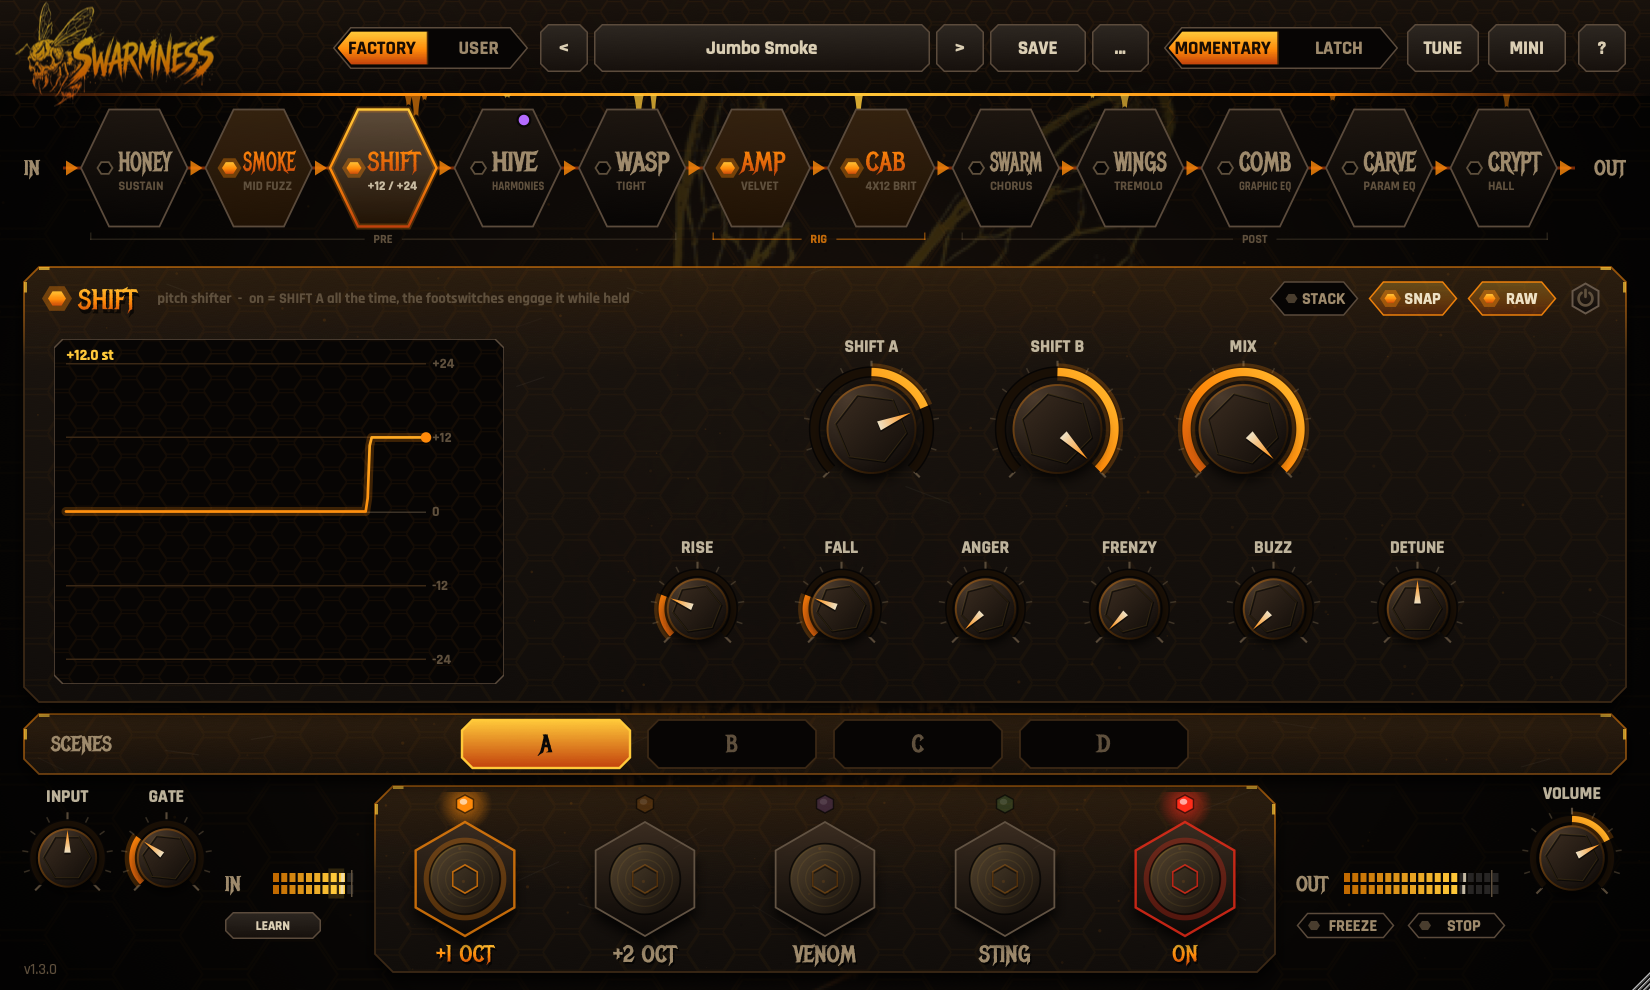
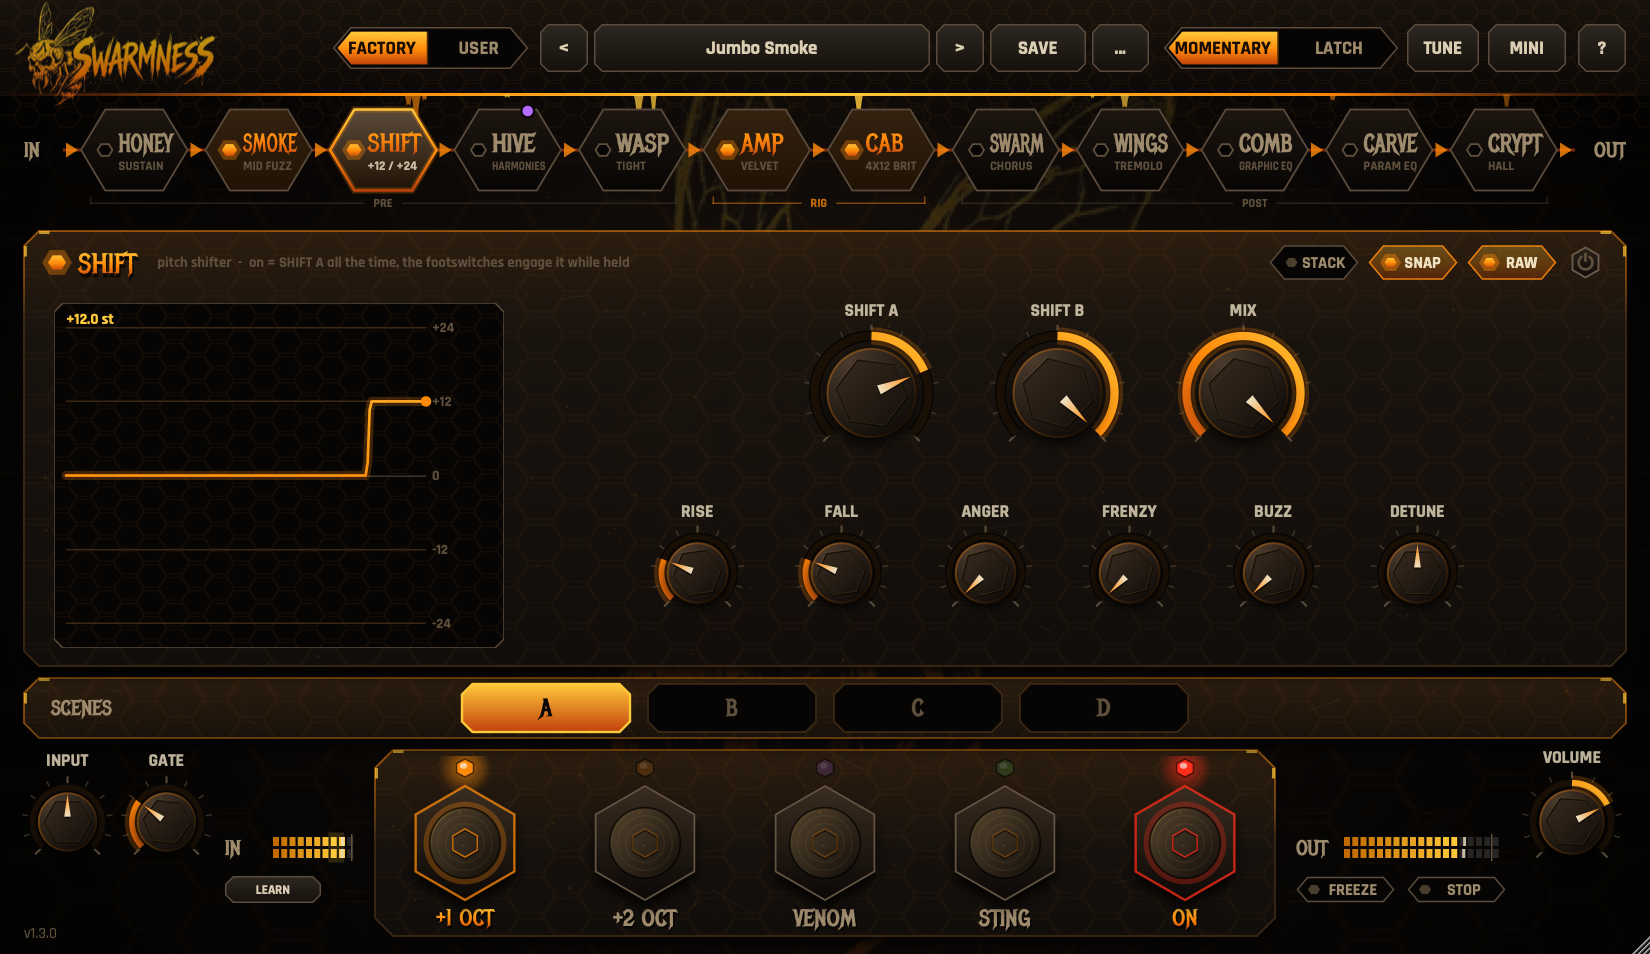
UI: chain tiles as low capsules
The taller tiles read as stretched upright. They are 60 high again, wider
than tall (points at 0.3 of the height), names and the live value still
fit; the window loses the 24 px (636 high, MINI 338).

diff --git a/Source/GUI/ChainStrip.cpp b/Source/GUI/ChainStrip.cpp
@@ -5,7 +5,7 @@ using namespace Theme;
 namespace
 {
     constexpr float kInW = 26.0f, kOutW = 34.0f, kGap = 12.0f, kSplitGap = 22.0f, kMergeGap = 42.0f;
-    constexpr float kPoint = 0.24f;   // the tiles' hex points (a flatter capsule than a honeycomb cell: room for the names)
+    constexpr float kPoint = 0.3f;    // the tiles' hex points (a flatter capsule than a honeycomb cell: room for the names)
 }
 
 ChainStrip::ChainStrip (juce::AudioProcessorValueTreeState& s) : state (s)
@@ -429,15 +429,15 @@ void ChainStrip::paint (juce::Graphics& g)
             g.drawFittedText (Chain::names[b], text.translated (0.0f, 1.0f).toNearestInt(), juce::Justification::centredLeft, 1, 0.5f);
             return;
         }
-        g.setFont (displayFont (22.0f));
-        const auto nameArea = text.withTrimmedBottom (text.getHeight() * 0.44f).translated (0.0f, 2.0f);
+        g.setFont (displayFont (21.0f));
+        const auto nameArea = text.withTrimmedBottom (text.getHeight() * 0.42f).translated (0.0f, 2.0f);
         if (dark) g.setColour (Colours::background);
         else if (on || hi) g.setGradientFill (honeyGradient (nameArea)); else g.setColour (Colours::textDim);
         g.drawFittedText (Chain::names[b], nameArea.toNearestInt(), juce::Justification::bottomLeft, 1, 0.55f);
         g.setFont (font (11.0f, true));
         g.setColour (dark ? Colours::background.withAlpha (0.75f) : hi ? Colours::text.withAlpha (0.8f) : Colours::textFaint);
         g.drawFittedText (subtitles[(size_t) b].isNotEmpty() ? subtitles[(size_t) b] : juce::String (Chain::subtitles[b]),
-                          text.withTrimmedTop (text.getHeight() * 0.58f).toNearestInt(), juce::Justification::topLeft, 1, 0.5f);
+                          text.withTrimmedTop (text.getHeight() * 0.58f).withTrimmedTop (1.0f).toNearestInt(), juce::Justification::topLeft, 1, 0.5f);
 
         // stomp wiring: VENOM purple, STING green, on the tile's top edge
         const int marks = stompMarks[(size_t) b];
@@ -445,7 +445,7 @@ void ChainStrip::paint (juce::Graphics& g)
         for (int bit : { 1, 0 })
             if ((marks >> bit) & 1)
             {
-                const auto dot = juce::Rectangle<float> (7.0f, 7.0f).withCentre ({ mx, r.getY() + 7.0f });
+                const auto dot = juce::Rectangle<float> (7.0f, 7.0f).withCentre ({ mx, r.getY() + 1.0f });
                 g.setColour (Colours::background);
                 g.fillEllipse (dot.expanded (1.5f));
                 g.setColour (bit == 0 ? juce::Colour (0xffb46bff) : juce::Colour (0xff5fd36b));

diff --git a/Source/PluginEditor.cpp b/Source/PluginEditor.cpp
@@ -442,8 +442,8 @@ void MainPanel::resized()
 
     // Chain strip (tiles + the PRE / RIG / POST band) and the page area below it: one block at a time.
     // The chain is the navigation, so it gets the room; a page keeps its knobs together in the middle.
-    chainStrip.setBounds (16, 70, baseWidth - 32, 84 + (int) ChainStrip::zoneBandHeight);
-    pageArea = { 16, 178, baseWidth - 32, 290 };
+    chainStrip.setBounds (16, 70, baseWidth - 32, 60 + (int) ChainStrip::zoneBandHeight);
+    pageArea = { 16, 154, baseWidth - 32, 290 };
     for (auto* c : std::initializer_list<juce::Component*> { &eqPage, &reverbPage, &wasp, &ampCab })
         c->setBounds (pageArea);
     for (auto& page : pages)
@@ -565,8 +565,8 @@ void MainPanel::resized()
     // Footer: footswitches centred (LINK mini switches beside the octaves), meters at the sides
     {
         // scenes above the footswitches (full view: under the pages)
-        sceneBar.setBounds (16, mini ? 178 : 476, baseWidth - 32, 40);
-        const int fy = mini ? 230 : 528, fw = 92, fh = 118, spacing = 120;
+        sceneBar.setBounds (16, mini ? 154 : 452, baseWidth - 32, 40);
+        const int fy = mini ? 206 : 504, fw = 92, fh = 118, spacing = 120;
         const int total = spacing * 4 + fw;
         int x = (baseWidth - total) / 2;
         for (auto* f : { &oct1Switch, &oct2Switch, &magicSwitch, &stingSwitch, &bypassSwitch })

diff --git a/Source/PluginEditor.h b/Source/PluginEditor.h
@@ -13,8 +13,8 @@ class MainPanel : public juce::Component
 {
 public:
     static constexpr int baseWidth  = 1100;
-    static constexpr int baseHeight = 660;   // full view: the chain, ONE block's page, scenes, footswitches
-    static constexpr int miniHeight = 362;   // MINI: chain, scenes and footswitches for playing live
+    static constexpr int baseHeight = 636;   // full view: the chain, ONE block's page, scenes, footswitches
+    static constexpr int miniHeight = 338;   // MINI: chain, scenes and footswitches for playing live
 
     int getBaseHeight() const noexcept { return mini ? miniHeight : baseHeight; }
     bool isMini() const noexcept { return mini; }
